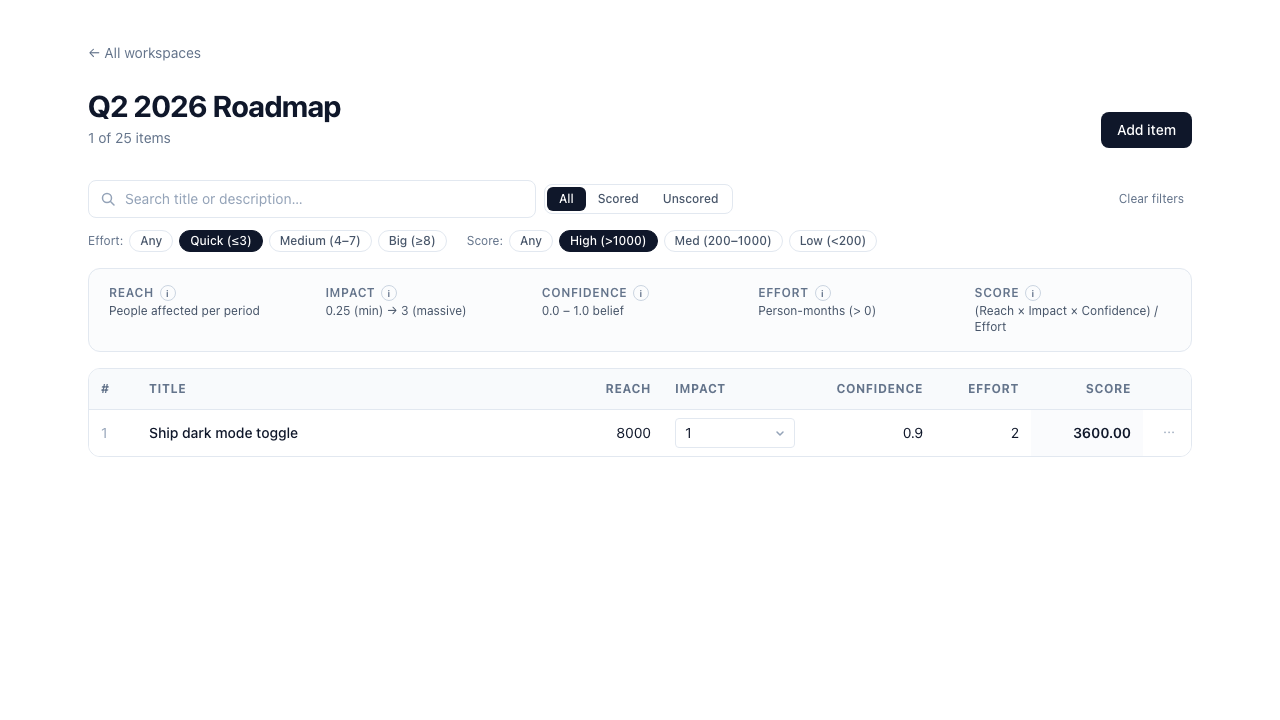
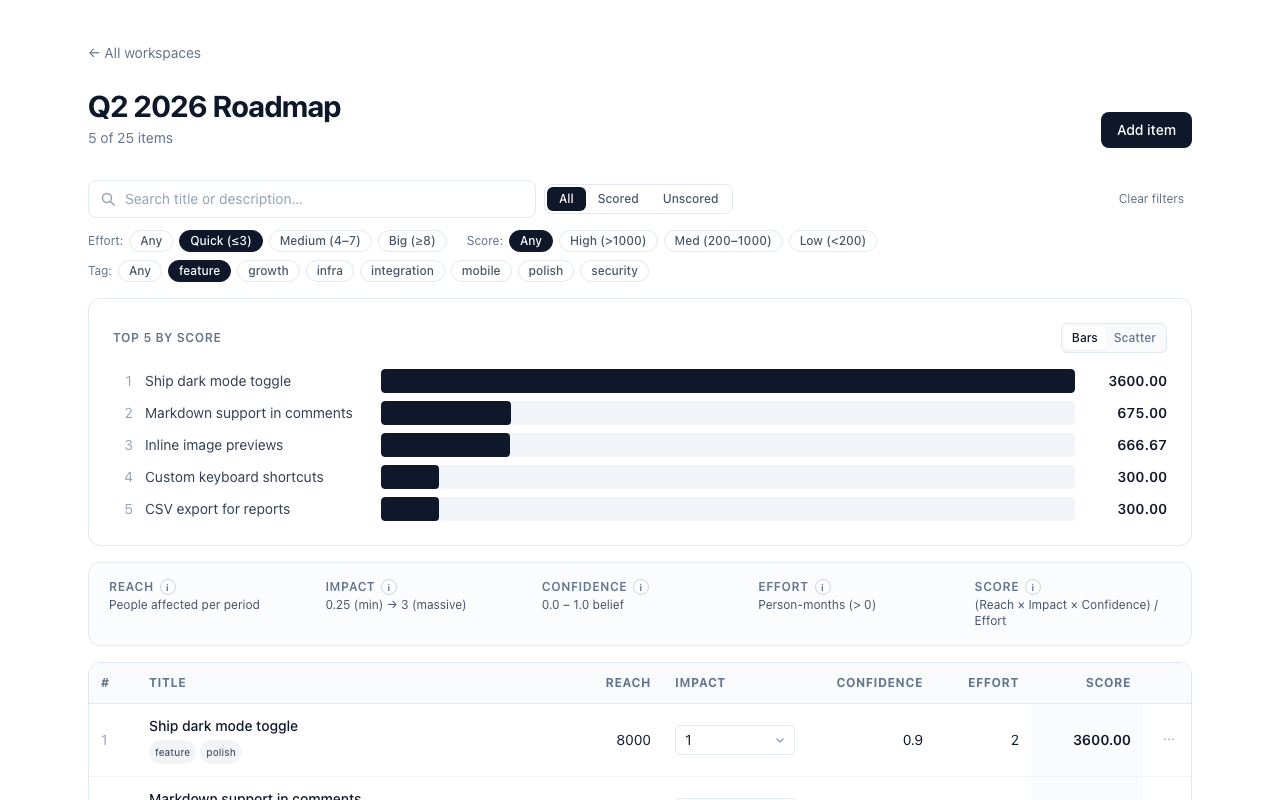
chore: demo seeding + local capture support; refresh screenshots & docs
- `apps/api/scripts/seed_demo.sh`: reusable seed that creates (or
  patches tags onto) the three demo workspaces — full mode for fresh
  envs, TAGS_ONLY=1 for re-tagging an already-seeded prod.
- `apps/web/scripts/capture-screenshots.mjs`: BASE / WS_Q2 / SHOTS
  env overrides so the same script can target a local dev server when
  the feature isn't deployed yet; also hides the Next.js dev-mode
  portal so the "1 error" indicator doesn't leak into captures.
- Refreshed 4 screenshots (01-board-hero, 02-scatter-view,
  04-filter-search, 05-filter-buckets) to show the Effort / Score /
  Tag filter chip groups together; 05 now demos Effort + Tag chips
  active simultaneously.
- README: mark Item tags and Score history done in the Roadmap,
  bump pytest count to 56, sync Status table and tech-stack rows,
  update the screenshot caption + regenerate-anytime note.

diff --git a/README.md b/README.md
@@ -32,7 +32,7 @@ The board at a glance — filter bar, top-10 bar chart, and the table:
     <td><a href="./docs/screenshots/03-workspaces-list.png"><img src="./docs/screenshots/03-workspaces-list.png" alt="Workspaces list"></a></td>
   </tr>
   <tr>
-    <td width="50%"><strong>Effort / Score bucket chips</strong><br><sub>Quick (≤3) + High (&gt;1000) narrows 25 items to the one standout</sub></td>
+    <td width="50%"><strong>Effort + Tag chip filters</strong><br><sub>Quick (≤3) effort + <code>feature</code> tag narrows 25 items to a focused slice — Score bucket sits alongside, ready to layer on</sub></td>
     <td width="50%"><strong>Inline (i) tooltips on every metric</strong><br><sub>Hover, focus, or tap for the RICE-specific scale (0.25 → 3 etc.)</sub></td>
   </tr>
   <tr>
@@ -47,7 +47,7 @@ The board at a glance — filter bar, top-10 bar chart, and the table:
   </tr>
 </table>
 
-> Captured against the live deployment — regenerate any time with `pnpm --filter @frameboard/web exec node scripts/capture-screenshots.mjs`.
+> Regenerate any time with `pnpm --filter @frameboard/web exec node scripts/capture-screenshots.mjs`. Defaults target the live deployment; pass `BASE=http://localhost:3000 WS_Q2=<id>` to capture from a local dev server before pushing changes that aren't deployed yet.
 
 ## Why Frameboard?
 
@@ -67,9 +67,9 @@ Alpha, built in the open. **Live and deployed** at [frameboard.pages.dev](https:
 | Layer | Status |
 |---|---|
 | Database schema | ✅ Users, workspaces, items, RICE scores |
-| Backend API | ✅ Full CRUD + RICE upsert (44 pytest tests) |
-| Frontend workspace list + board | ✅ Create, score, edit (modal + inline), delete |
-| Visualization & filtering | ✅ Top-10 bars + Effort × Score scatter, search / status / effort / score chips, URL-synced state |
+| Backend API | ✅ Full CRUD + RICE upsert + item tags + history log (56 pytest tests) |
+| Frontend workspace list + board | ✅ Create, score, edit (modal + inline), delete, tag |
+| Visualization & filtering | ✅ Top-10 bars + Effort × Score scatter, search / status / effort / score / tag chips, URL-synced state |
 | Metric tooltips | ✅ Inline (i) on Reach / Impact / Confidence / Effort / Score |
 | End-to-end test suite | ✅ 5 Playwright scenarios, green in CI |
 | Production deployment | ✅ Cloudflare Pages + Render + Neon |
@@ -140,7 +140,7 @@ Brings up Postgres (`:5433`), the FastAPI backend (`:8001`), and the Next.js fro
 | Backend  | FastAPI, Python 3.12+, SQLAlchemy 2.0, Alembic             |
 | Database | PostgreSQL 16 (Dockerized, port `5433` to avoid conflicts) |
 | Monorepo | pnpm workspaces + Turborepo                                |
-| Testing  | pytest (44 tests, backend), Playwright (5 e2e scenarios)   |
+| Testing  | pytest (56 tests, backend), Playwright (5 e2e scenarios)   |
 | Deploy   | Cloudflare Pages (frontend) + Render (backend) + Neon (DB) |
 | CI       | GitHub Actions — web, api, e2e jobs all gated on PRs       |
 
@@ -163,8 +163,8 @@ Brings up Postgres (`:5433`), the FastAPI backend (`:8001`), and the Next.js fro
 - [x] Board quick-wins filter — effort + score bucket chips (URL `?effort=` `?score=`)
 - [x] Metric legend tooltips — `(i)` buttons explain Reach / Impact (0.25→3 scale) / Confidence / Effort / Score
 - [x] Self-host Docker image — `docker compose -f docker-compose.selfhost.yml up --build` brings up Postgres + API + Web
-- [ ] Score history / change-log timeline per item
-- [ ] Item tags / categories — schema addition + tag filter UI
+- [x] Item tags / categories — JSON column on items, pill input in the edit modal, tag chip filter on the board (URL `?tag=`)
+- [x] Score history / change-log timeline per item — append-only `item_history` table records RICE changes and field edits; collapsible timeline in the edit modal
 - [ ] ICE / MoSCoW / Value-vs-Effort frameworks
 - [ ] Collaborative scoring with disagreement visualization
 - [ ] Jira / Linear / Notion export
